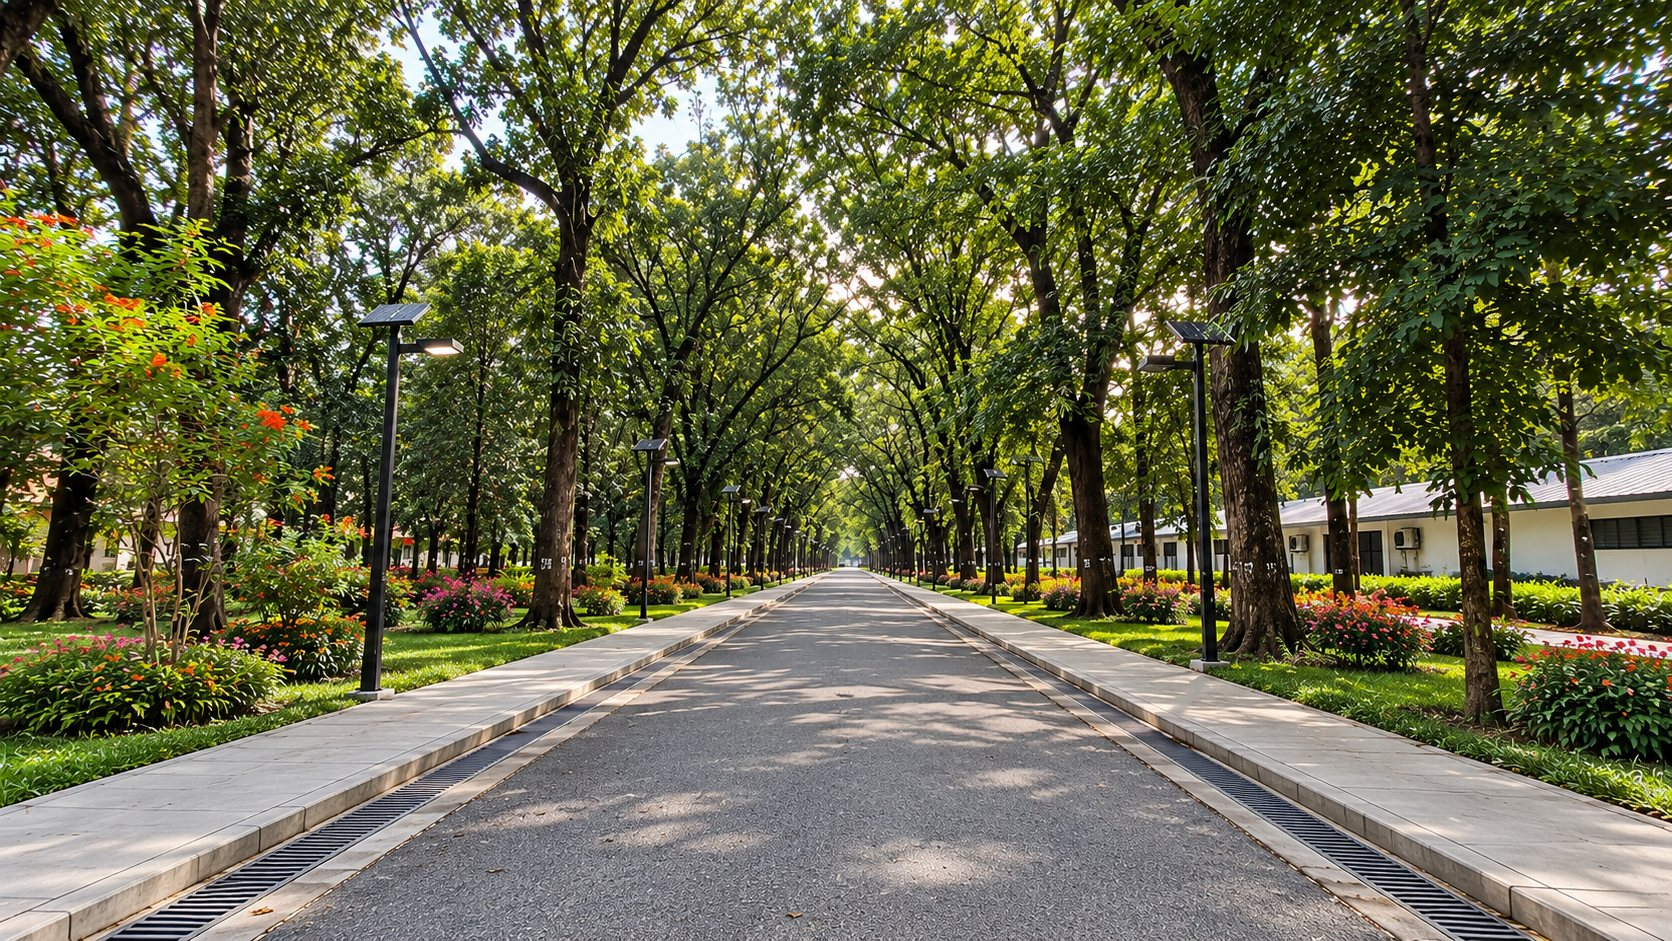
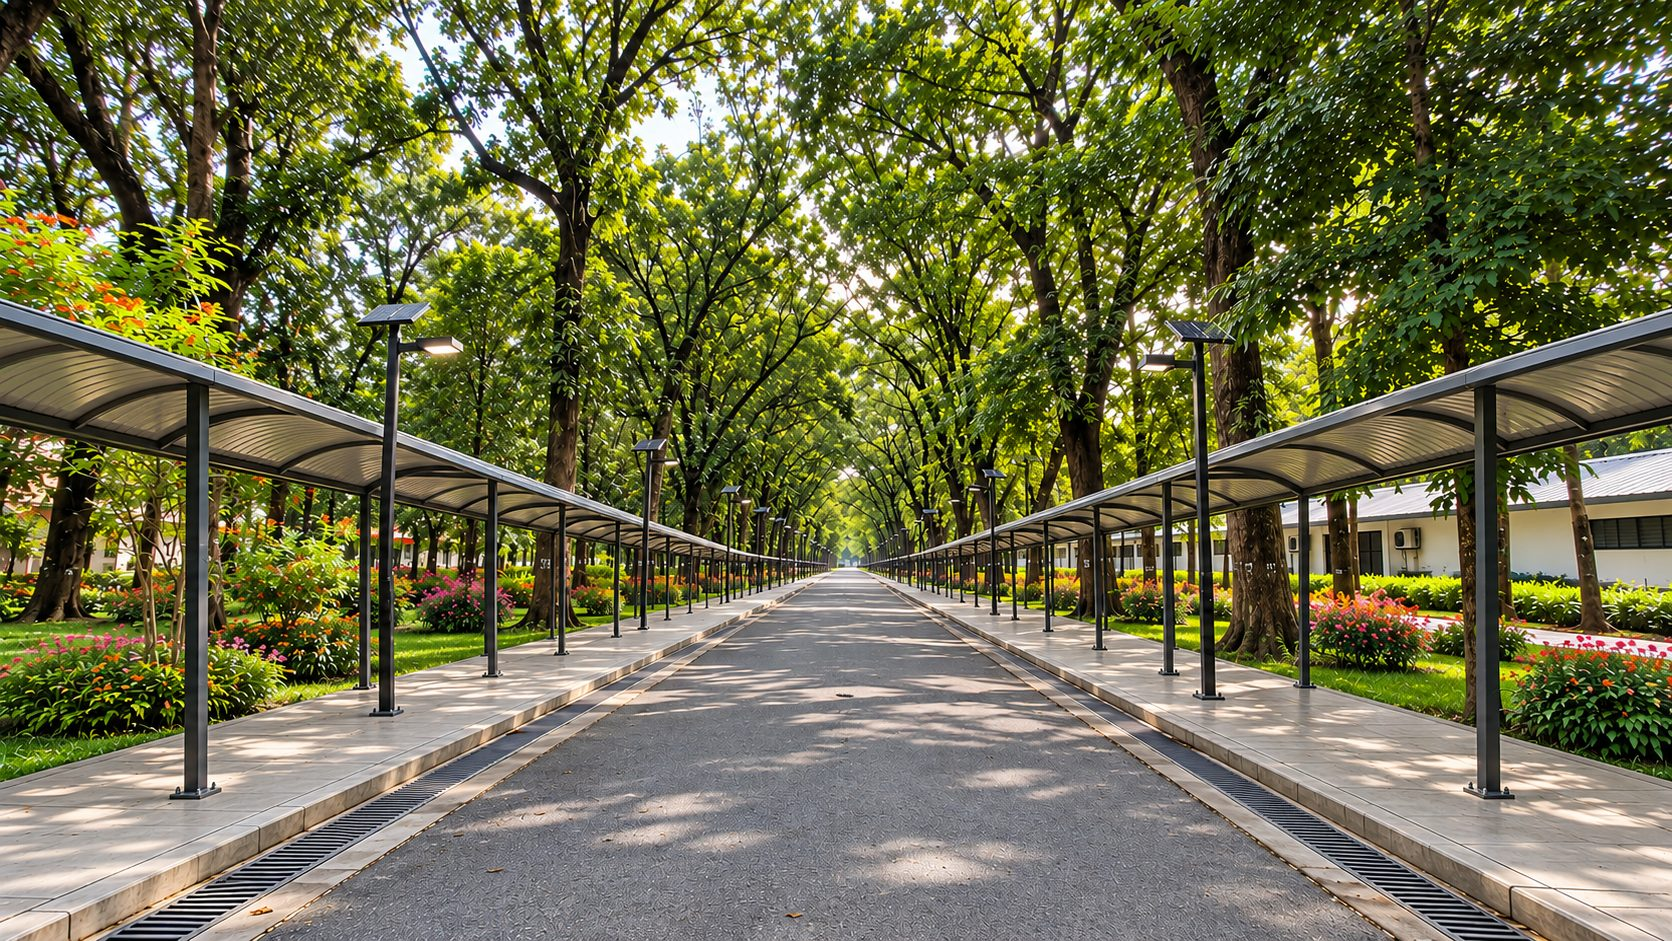
massive Quality of Love update

diff --git a/js/navfp.js b/js/navfp.js
@@ -19,6 +19,7 @@
   // ── Tunables ──
   var EYE_HEIGHT   = 5;       // metres above the pathway
   var FOV_FP       = 72;
+  var AUTO_TURN    = 1.5;     // rad/s the view turns toward a sideways joystick push (second-finger look overrides)
   var WALK_SPEED   = 30;      // scene units (metres) per second at full joystick
   var HALF_WIDTH   = 2.4;     // how far from a pathway's centreline you can stray
   var LABEL_RANGE_FP = 170;   // name tags farther than this are hidden in first-person
@@ -559,6 +560,13 @@
     if (jobs.length) pumpBake(NavFP.active ? 3 : 6);      // background baking, a few ms per frame
     if (NavFP.active) {
       var jx = joy.x, jy = joy.y;
+      // Auto-steer: pushing the joystick sideways also turns the view that way, so at an
+      // intersection the camera follows where you are going instead of staring at the edge
+      // of the path. Dragging a second finger to look around always overrides it.
+      if (jx && look.id === null) {
+        yaw -= jx * AUTO_TURN * dt;
+        jx *= 0.6;                                          // part of the sideways push becomes the turn
+      }
       if (jx || jy) {
         var fx = -Math.sin(yaw), fz = -Math.cos(yaw);       // forward
         var rx =  Math.cos(yaw), rz = -Math.sin(yaw);       // right

diff --git a/js/main.js b/js/main.js
@@ -715,12 +715,13 @@ function initControls() {
     panStart(e);
   });
   canvas.addEventListener('pointermove', panMove);
+  canvas.addEventListener('contextmenu', e => e.preventDefault()); // right-drag rotates, so no browser menu
   canvas.addEventListener('pointerup', e => {
     panEnd();
     // Only do building hit-test on a real tap (not the end of a drag)
     const dx = Math.abs(e.clientX - _tapX);
     const dy = Math.abs(e.clientY - _tapY);
-    if (dx < TAP_THRESHOLD && dy < TAP_THRESHOLD) {
+    if (e.button !== 2 && dx < TAP_THRESHOLD && dy < TAP_THRESHOLD) {
       onPointerDown({ clientX: _tapX, clientY: _tapY });
     }
   });
@@ -745,7 +746,8 @@ function panStart(e) {
   pan.active = true;
   // Shift+drag rotates instead of panning — a one-pointer stand-in for the
   // two-finger rotate gesture below, so rotation is also testable with a mouse.
-  pan.mode = e.shiftKey ? 'rotate' : 'pan';
+  // On a laptop/desktop the right mouse button rotates too (left = pan, right = rotate).
+  pan.mode = (e.shiftKey || e.button === 2) ? 'rotate' : 'pan';
   pan.lastX = e.clientX ?? (e.touches?.[0]?.clientX ?? 0);
   pan.lastY = e.clientY ?? (e.touches?.[0]?.clientY ?? 0);
 }

diff --git a/js/ui.js b/js/ui.js
@@ -344,8 +344,12 @@ function fitDevzonesMap() {
 
   const fit = Math.max(wrapW / devzonesView.imgW, wrapH / devzonesView.imgH);
   devzonesView.baseScale = fit;
-  devzonesView.minScale = fit;
+  // Zooming out is allowed down to the "whole map visible" size (contain). Any
+  // leftover space around the map is filled by a blurred copy of the same
+  // satellite image (see .devzones-map-wrap::before) so no black shows.
+  devzonesView.minScale = Math.min(wrapW / devzonesView.imgW, wrapH / devzonesView.imgH);
   devzonesView.maxScale = fit * 6;
+  wrap.style.setProperty('--dz-bg', 'url("' + img.getAttribute('src') + '")');
   devzonesView.scale = fit;
   devzonesView.tx = (wrapW - devzonesView.imgW * fit) / 2;
   devzonesView.ty = (wrapH - devzonesView.imgH * fit) / 2;

diff --git a/style.css b/style.css
@@ -887,6 +887,16 @@
     cursor: grab;
   }
   .devzones-map-wrap.dragging { cursor: grabbing; }
+  /* Zoomed out past the map's edges: show a blurred copy of the satellite
+     image instead of a black background. */
+  .devzones-map-wrap::before {
+    content: '';
+    position: absolute;
+    inset: -30px;
+    background: var(--dz-bg) center / cover no-repeat;
+    filter: blur(14px) brightness(0.8);
+    pointer-events: none;
+  }
   .devzones-map-img {
     position: absolute;
     top: 0;

diff --git a/service-worker.js b/service-worker.js
@@ -6,7 +6,7 @@
 // the same file name (new photos / new file names are picked up automatically).
 const PHOTO_CACHE = 'prmsu-photos-v5';
 const isPhotoPath = p => /\/images\/(360|devzones)\//.test(p);
-const CACHE_NAME = 'prmsu-digitwin-v4.66'; // Update this version whenever files change
+const CACHE_NAME = 'prmsu-digitwin-v4.67'; // Update this version whenever files change
 
 const STATIC_ASSETS = [
   './',
